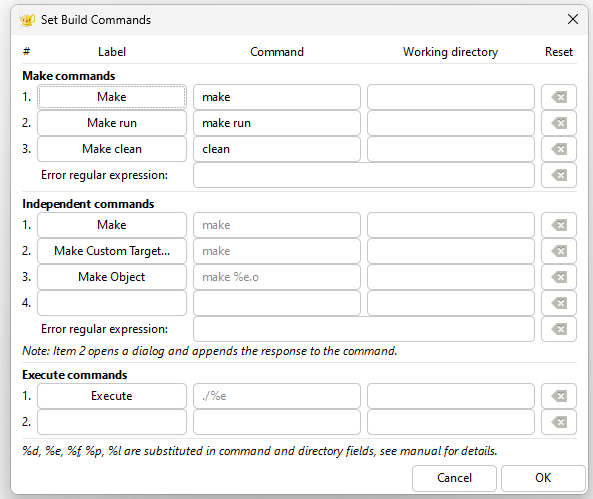
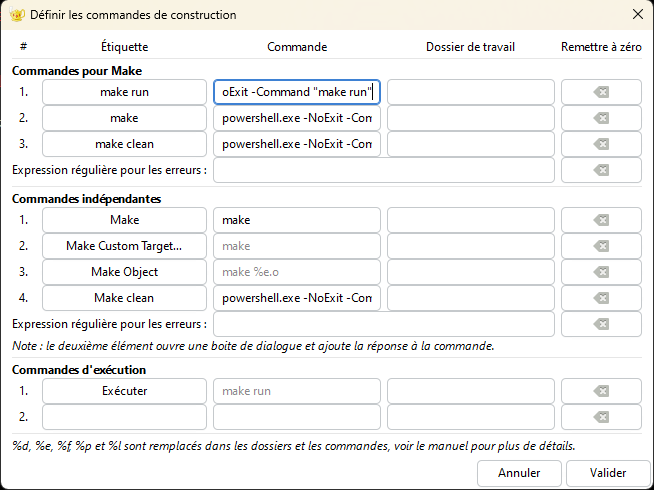
Exemple de Makefile WIndows et mise à jour de l'exécuteur pour le terminal extenr powershell

Changed region(s): [[0.0, 0.0, 1.0, 1.0], [0.3946, 0.0918, 0.516, 0.1224]]

diff --git a/Readme.md b/Readme.md
@@ -30,9 +30,9 @@ Selectionner le nombre qui vous convient et enregistrer.
 
 Vous pouvez aussi supprimer et resaisir de A à Z votre Makefile pour éviter les espaces blancs sinon elle marchera pas.
 
-## Étape de Création du Makefile
+## Étape de Création du Makefile (Linux)
 
-Créez un fichier nommé `Makefile` dans le répertoire racine de votre projet et ajoutez-y le contenu suivant :
+Créez un fichier nommé `Makefile` dans le répertoire du projet ```/PrommationModulaire/``` et ajoutez-y le contenu suivant :
 
 ```makefile
 # Fichiers sources
@@ -55,6 +55,29 @@ run:
 ```
 
 Remplacer :   ``` rm -f $(TARGET)   par   del $(TARGET)```  si vous êtes sur Windows
+
+## Étape de Création du Makefile (Windows)
+
+Créez un fichier nommé `Makefile` dans le répertoire racine du projet ```/PrommationModulaire/Somme/``` et ajoutez-y le contenu suivant :
+
+```makefile
+# Fichiers sources
+SRCS = main.cxx Somme.cxx
+
+# Nom de l'exécutable
+TARGET = Exe.exe
+
+# Commande de compilation
+all:
+	g++ $(SRCS) -o $(TARGET)
+# Nettoyage des fichiers temporaires
+clean:
+	del /f /q $(TARGET)
+# Exécutable
+run:
+	./$(TARGET)
+
+```
 ## Exécuter votre Makefile via les commandes:
 ```
 make
@@ -106,7 +129,8 @@ sudo apt install xclip xsel
 sudo apt update && sudo apt upgrade
 ```
 
-## Configurer et Compiler le Makefile sur Geany (Fais sur Linux mais pareil pour les autres distributions), il faut suivre ces étapes: 
+## Configurer et Compiler le Makefile sur Geany  Linux puis Windows: 
+#### Sur Linux
 Se placer depuis ton fichier Makefile:
 Aller dans l'onglet "Build"
 Sélectionner "Set Build Commands" vous verrez dans ce cas "Make Commands" (Sans être dans le fichier Makefile cette option n'apparaîtra pas.)
@@ -118,9 +142,22 @@ Sélectionner "Set Build Commands" vous verrez dans ce cas "Make Commands" (Sans
 Dans la case "Commandes d'exécution" sur l'image remplacer (cas de Linux) ./%e par make run && xterm -e "./%e"
 ![Img7](img/Tab6.png)
 
-Sur windows, simmilaire (selon votre perminal pwsh ou cmd)
+#### Sur windows, simmilaire (selon le terminal pwsh)
 Il ne faut pas oublier la partie 1 Installation de MinGW (Sur Windows) : car la commade make ne marchera pas, donc activer le lien Symbolique ```mingw-make.exe ---> make.exe```.
+Modifier les cases comme sur l'image :
+```
+Make run --> powershell.exe -NoExit -Command "make run"
+```
+```
+Make --> powershell.exe -NoExit -Command "make"
+```
+```
+Make clean --> powershell.exe -NoExit -Command "make clean"
+```
+
 ![Img4](img/Tab3.png)
+
+
 
 # La compilation avec le Terminal de plusieurs ficiers (Sans Makefile):
 On fait Compilation des fichiers objets associé à chaque fichier source :
